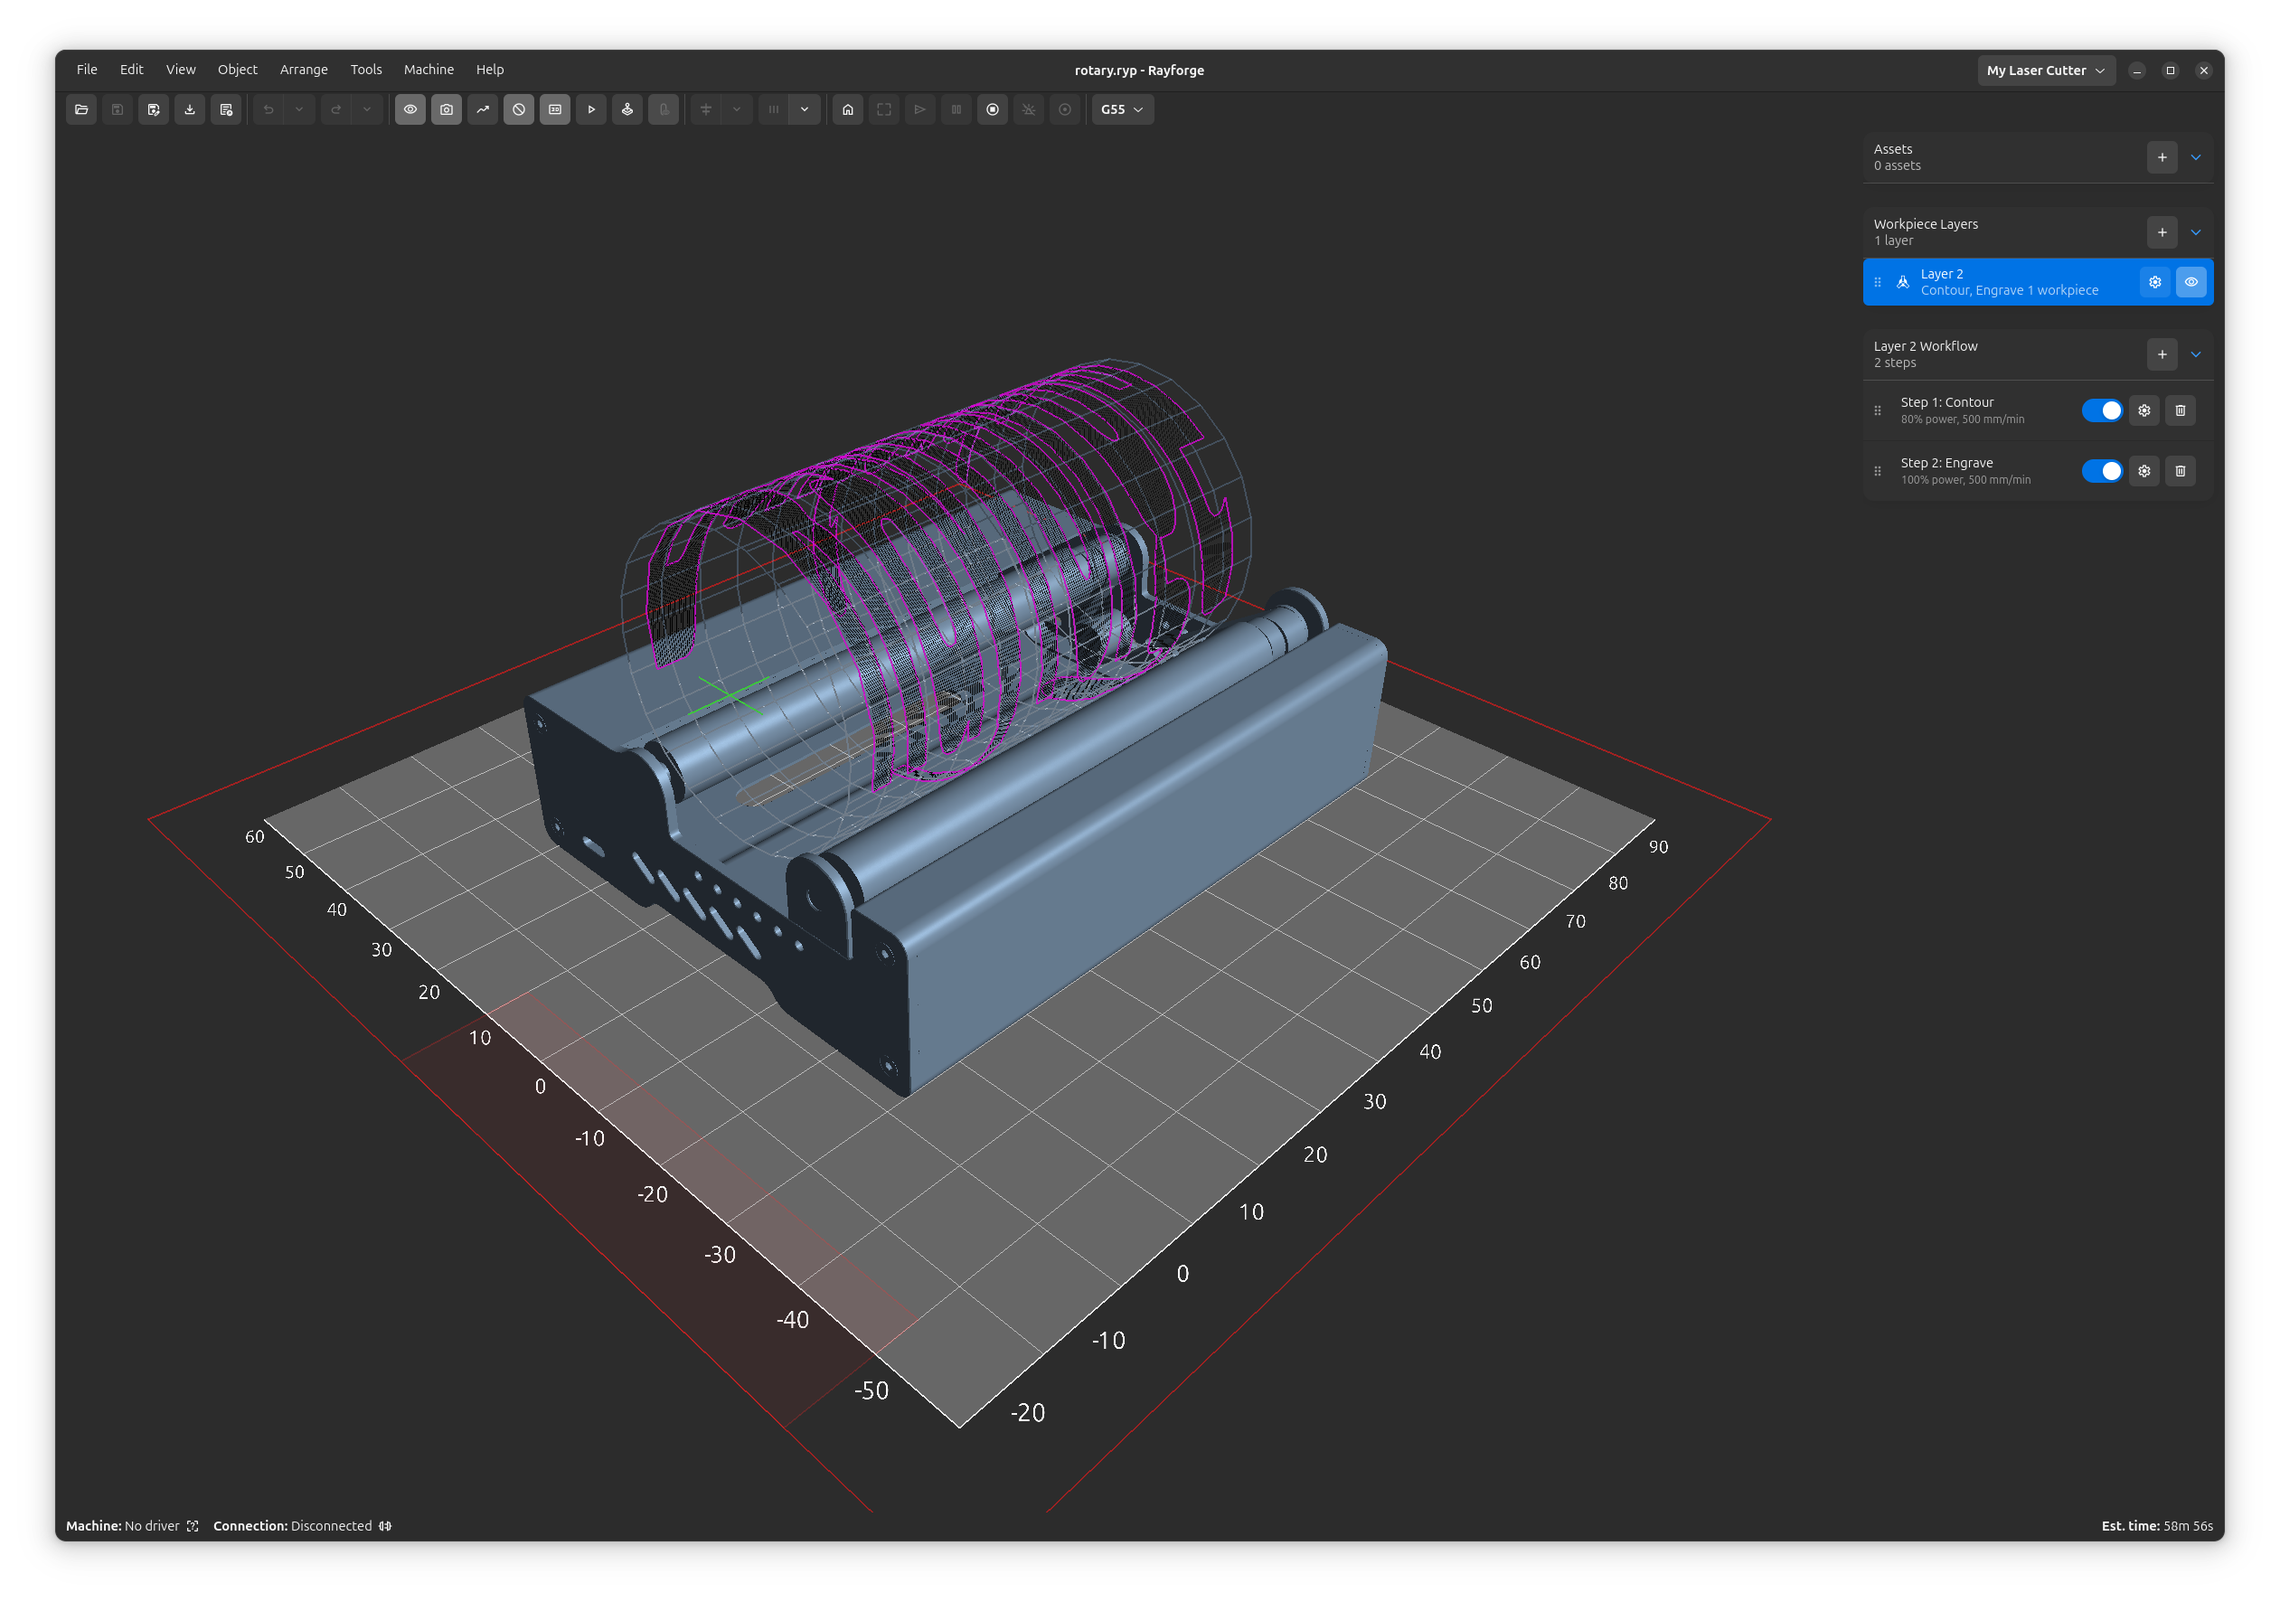
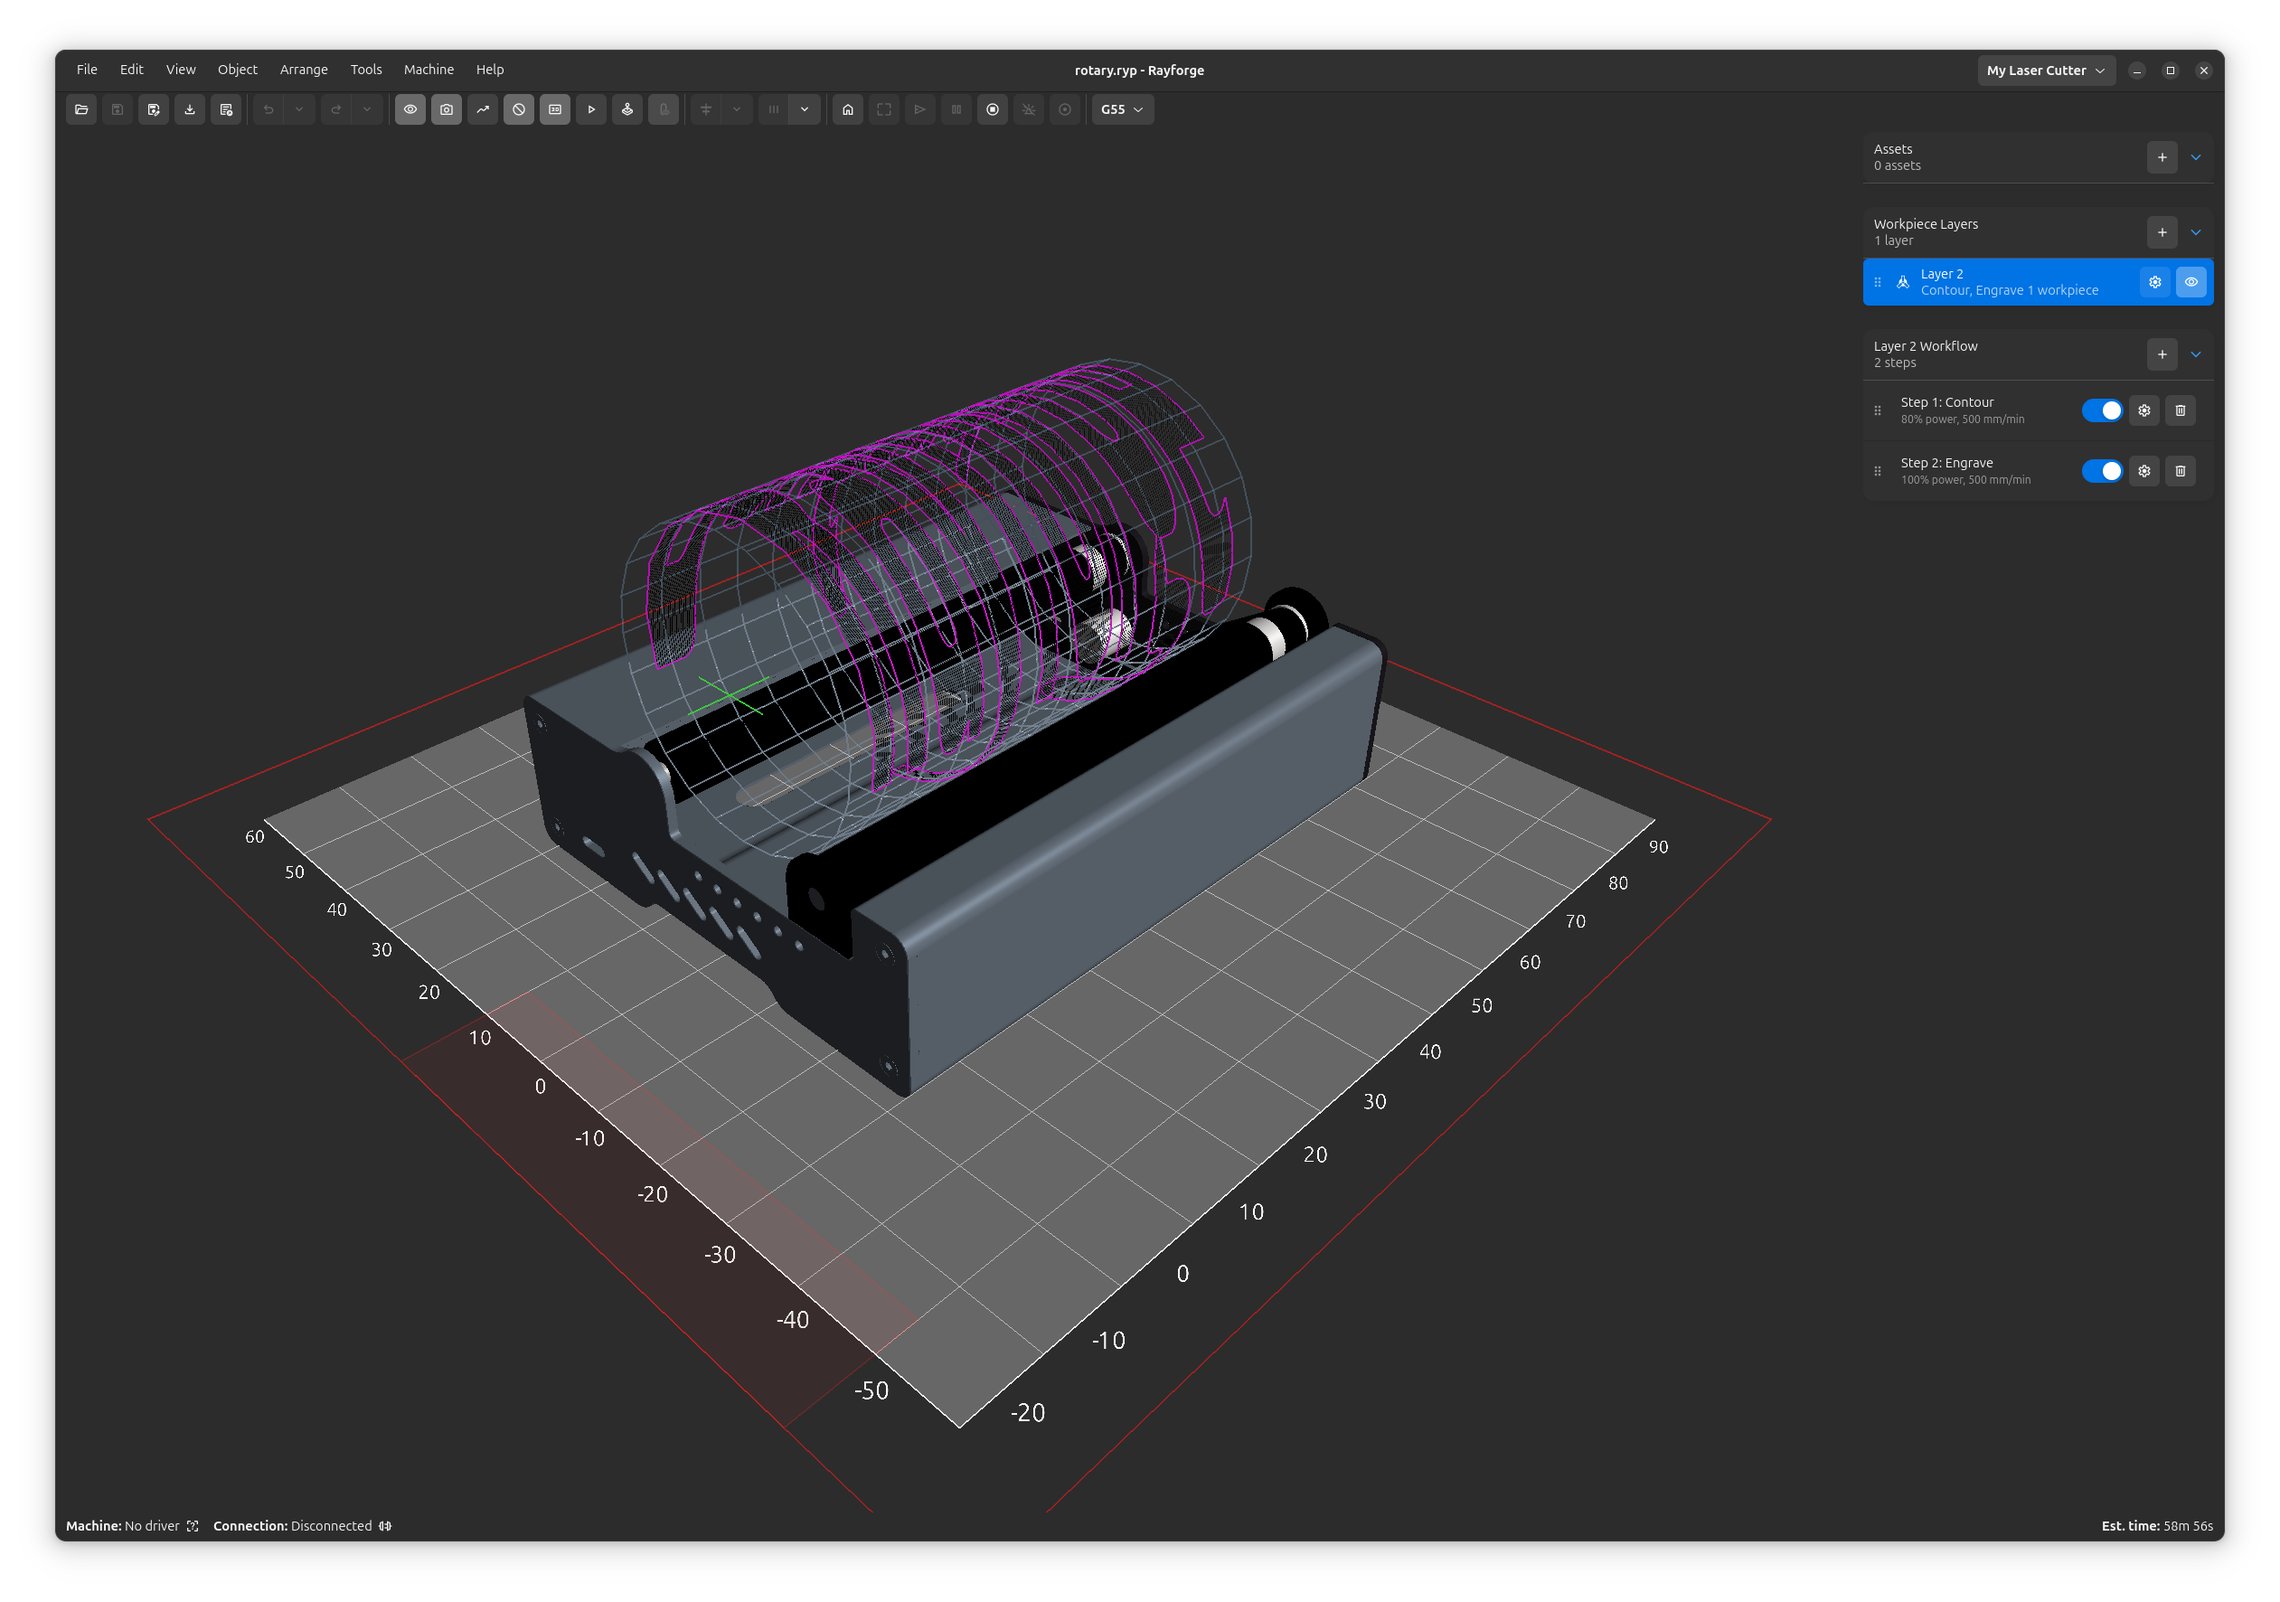
add glb color support

Changed region(s): [[0.2165, 0.3104, 0.6186, 0.6828]]

diff --git a/rayforge/ui_gtk/canvas3d/model_renderer.py b/rayforge/ui_gtk/canvas3d/model_renderer.py
@@ -19,12 +19,40 @@ logger = logging.getLogger(__name__)
 class _CachedModelData:
     positions: np.ndarray
     normals: np.ndarray
+    colors: Optional[np.ndarray]
     faces: np.ndarray
     bounds: Tuple[np.ndarray, np.ndarray]
     triangle_count: int
 
 
 _model_cache: Dict[Path, _CachedModelData] = {}
+
+
+def _extract_color(mesh) -> Optional[np.ndarray]:
+    visual = getattr(mesh, "visual", None)
+    if visual is None:
+        return None
+    try:
+        vc = visual.vertex_colors
+        if vc is not None and len(vc) == len(mesh.vertices):
+            return np.array(vc, dtype=np.float32) / 255.0
+    except Exception:
+        pass
+    try:
+        mat = visual.material
+        base = getattr(mat, "baseColorFactor", None)
+        if base is None:
+            base = getattr(mat, "diffuse", None)
+        if base is not None:
+            c = np.array(base, dtype=np.float32)
+            if c.max() > 1.0:
+                c = c / 255.0
+            if c.shape[0] == 3:
+                c = np.append(c, 1.0)
+            return np.tile(c, (len(mesh.vertices), 1))
+    except Exception:
+        pass
+    return None
 
 
 def _load_mesh_data(path: Path) -> Optional[_CachedModelData]:
@@ -38,14 +66,25 @@ def _load_mesh_data(path: Path) -> Optional[_CachedModelData]:
         loaded = trimesh.load(str(path), file_type="glb")
         if isinstance(loaded, trimesh.Scene):
             meshes = []
+            colors = []
             for node in loaded.graph.nodes_geometry:
                 transform, geom_name = loaded.graph.get(node)
                 geom = loaded.geometry[geom_name]
+                color = _extract_color(geom)
                 geom = geom.apply_transform(transform)
                 meshes.append(geom)
+                if color is not None:
+                    colors.append(color)
             mesh = trimesh.util.concatenate(meshes)
+            has_colors = len(colors) == len(meshes) and sum(
+                c.shape[0] for c in colors
+            ) == len(mesh.vertices)
+            vertex_colors = (
+                np.vstack(colors).astype(np.float32) if has_colors else None
+            )
         elif isinstance(loaded, trimesh.Trimesh):
             mesh = loaded
+            vertex_colors = _extract_color(mesh)
         else:
             logger.error(
                 "Unexpected type from trimesh.load: %s",
@@ -68,6 +107,7 @@ def _load_mesh_data(path: Path) -> Optional[_CachedModelData]:
         data = _CachedModelData(
             positions=positions,
             normals=normals,
+            colors=vertex_colors,
             faces=faces,
             bounds=bounds,
             triangle_count=triangle_count,
@@ -96,7 +136,9 @@ class ModelRenderer(BaseRenderer):
         self._vao: int = 0
         self._vbo_pos: int = 0
         self._vbo_norm: int = 0
+        self._vbo_color: int = 0
         self._vertex_count: int = 0
+        self._has_colors: bool = False
         self._bounds: Optional[Tuple[np.ndarray, np.ndarray]] = None
         self._loaded: bool = False
         self._mesh_data: Optional[_CachedModelData] = None
@@ -111,6 +153,9 @@ class ModelRenderer(BaseRenderer):
         self._normals = self._mesh_data.normals[flat_indices]
         self._vertex_count = len(flat_indices)
         self._bounds = self._mesh_data.bounds
+        if self._mesh_data.colors is not None:
+            self._colors = self._mesh_data.colors[flat_indices]
+            self._has_colors = True
         self._loaded = True
         return True
 
@@ -122,6 +167,8 @@ class ModelRenderer(BaseRenderer):
         self._vao = self._create_vao()
         self._vbo_pos = self._create_vbo()
         self._vbo_norm = self._create_vbo()
+        if self._has_colors:
+            self._vbo_color = self._create_vbo()
 
         GL.glBindVertexArray(self._vao)
 
@@ -134,6 +181,17 @@ class ModelRenderer(BaseRenderer):
         )
         GL.glVertexAttribPointer(0, 3, GL.GL_FLOAT, GL.GL_FALSE, 0, None)
         GL.glEnableVertexAttribArray(0)
+
+        if self._has_colors:
+            GL.glBindBuffer(GL.GL_ARRAY_BUFFER, self._vbo_color)
+            GL.glBufferData(
+                GL.GL_ARRAY_BUFFER,
+                self._colors.nbytes,
+                self._colors,
+                GL.GL_STATIC_DRAW,
+            )
+            GL.glVertexAttribPointer(1, 4, GL.GL_FLOAT, GL.GL_FALSE, 0, None)
+            GL.glEnableVertexAttribArray(1)
 
         GL.glBindBuffer(GL.GL_ARRAY_BUFFER, self._vbo_norm)
         GL.glBufferData(
@@ -169,7 +227,7 @@ class ModelRenderer(BaseRenderer):
 
         shader.use()
         shader.set_mat4("uMVP", mvp_matrix)
-        shader.set_float("uUseVertexColor", 0.0)
+        shader.set_float("uUseVertexColor", 1.0 if self._has_colors else 0.0)
         shader.set_vec4("uColor", (0.5, 0.6, 0.7, 1.0))
         shader.set_float("uHasNormals", 1.0)
         shader.set_vec3("uLightDir", light_dir)

diff --git a/rayforge/ui_gtk/canvas3d/plane_renderer.py b/rayforge/ui_gtk/canvas3d/plane_renderer.py
@@ -79,6 +79,7 @@ class PlaneRenderer(BaseRenderer):
         shader.set_mat4("uMVP", mvp)
         shader.set_vec4("uColor", self.color)
         shader.set_float("uHasNormals", 0.0)
+        shader.set_float("uUseVertexColor", 0.0)
 
         GL.glBindVertexArray(self.vao)
         GL.glDrawArrays(GL.GL_TRIANGLES, 0, self.vertex_count)
